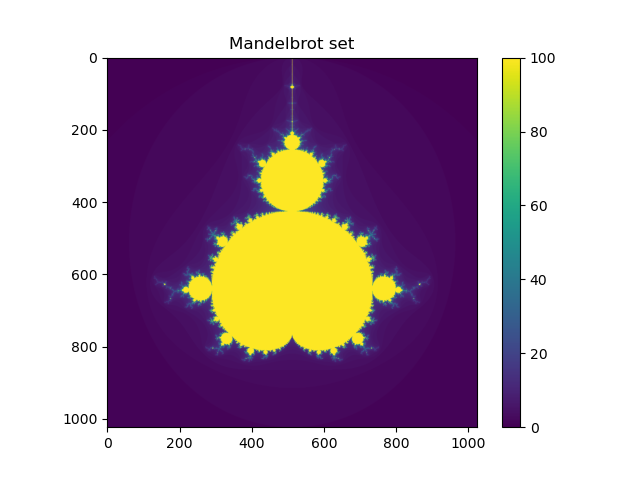
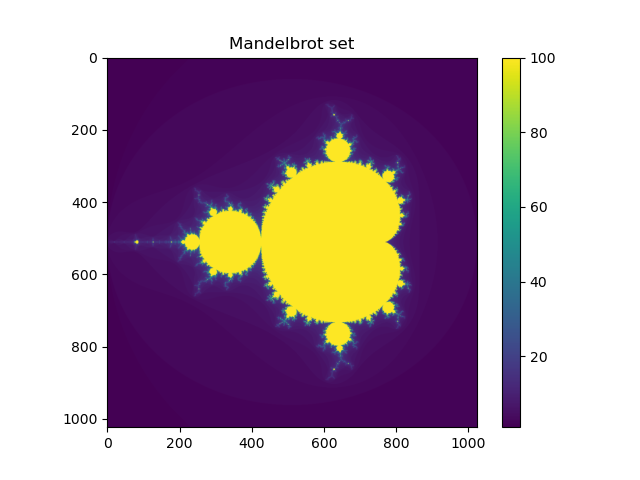
implemented full use of numpy for effeciency

diff --git a/mandelbrot.py b/mandelbrot.py
@@ -8,49 +8,29 @@ Author : [Jakob Rundlett]
 Course : Numerical Scientific Computing 2026
 """
 
-# define boundaries
-region_x = (-2, 1)
-region_y = (-1.5, 1.5)
-# for 1024x1024
-region_x_step = (region_x[1] - region_x[0]) / 1024
-region_y_step = (region_y[1] - region_y[0]) / 1024
-# create the pixel cooridnates
-points_x = np.arange(region_x[0], region_x[1], region_x_step)
-points_y = np.arange(region_y[0], region_y[1], region_y_step)
+x = np.linspace (-2,   1,   1024) # x resolution
+y = np.linspace (-1.5, 1.5, 1024) # y resolution
+X, Y = np.meshgrid(x, y) # standard grid
+C = X + 1j * Y # complex grid
+max_iter = 100
 
 # return the number of iterations given a complex number
-def mandelbrot_point(c, max_iter):
-    z = [0 + 0j]
+def mandelbrot_points():
+    Z = np.zeros_like(C)
+    M = np.zeros(C.shape, dtype=int)
+
     for n in range(max_iter):
-        new_z = z[-1]**2 + c
-        if abs(new_z) > 2:
-            return n
-        else:
-            z.append(new_z)
-    return max_iter
+        mask = np.abs(Z) <= 2
+        Z[mask] = Z[mask]**2 + C[mask]
+        M[mask] += 1
+    return M
 
+# make a new grid, converting the complex numbers to their 'maximum iterations'
 def compute_mandelbrot():
-    # create the grid of complex numbers for each pixel
-    complex_grid = []
-    for x in points_x:
-        new_line = []
-        for y in points_y:
-            new_line.append(complex(x, y))
-        complex_grid.append(new_line)
+    I = mandelbrot_points()
+    return I
 
-    complex_grid = np.array(complex_grid)
-
-    # replace all the complex numbers with the corresponding number of iterations
-    max_iter = 100
-    for row in range(len(complex_grid)):
-        for col in range(len(complex_grid[0])):
-            complex_grid[row][col] = mandelbrot_point(complex_grid[row][col], max_iter)
-
-    # I don't know why the grid still has complex numbers. They should all be replaced with integers
-    complex_grid = complex_grid.astype(int)
-
-    return complex_grid
-
+print(C.shape)
 start_time = time.time()
 mandelbrot_result = compute_mandelbrot()
 elapsed_time = time.time() - start_time
